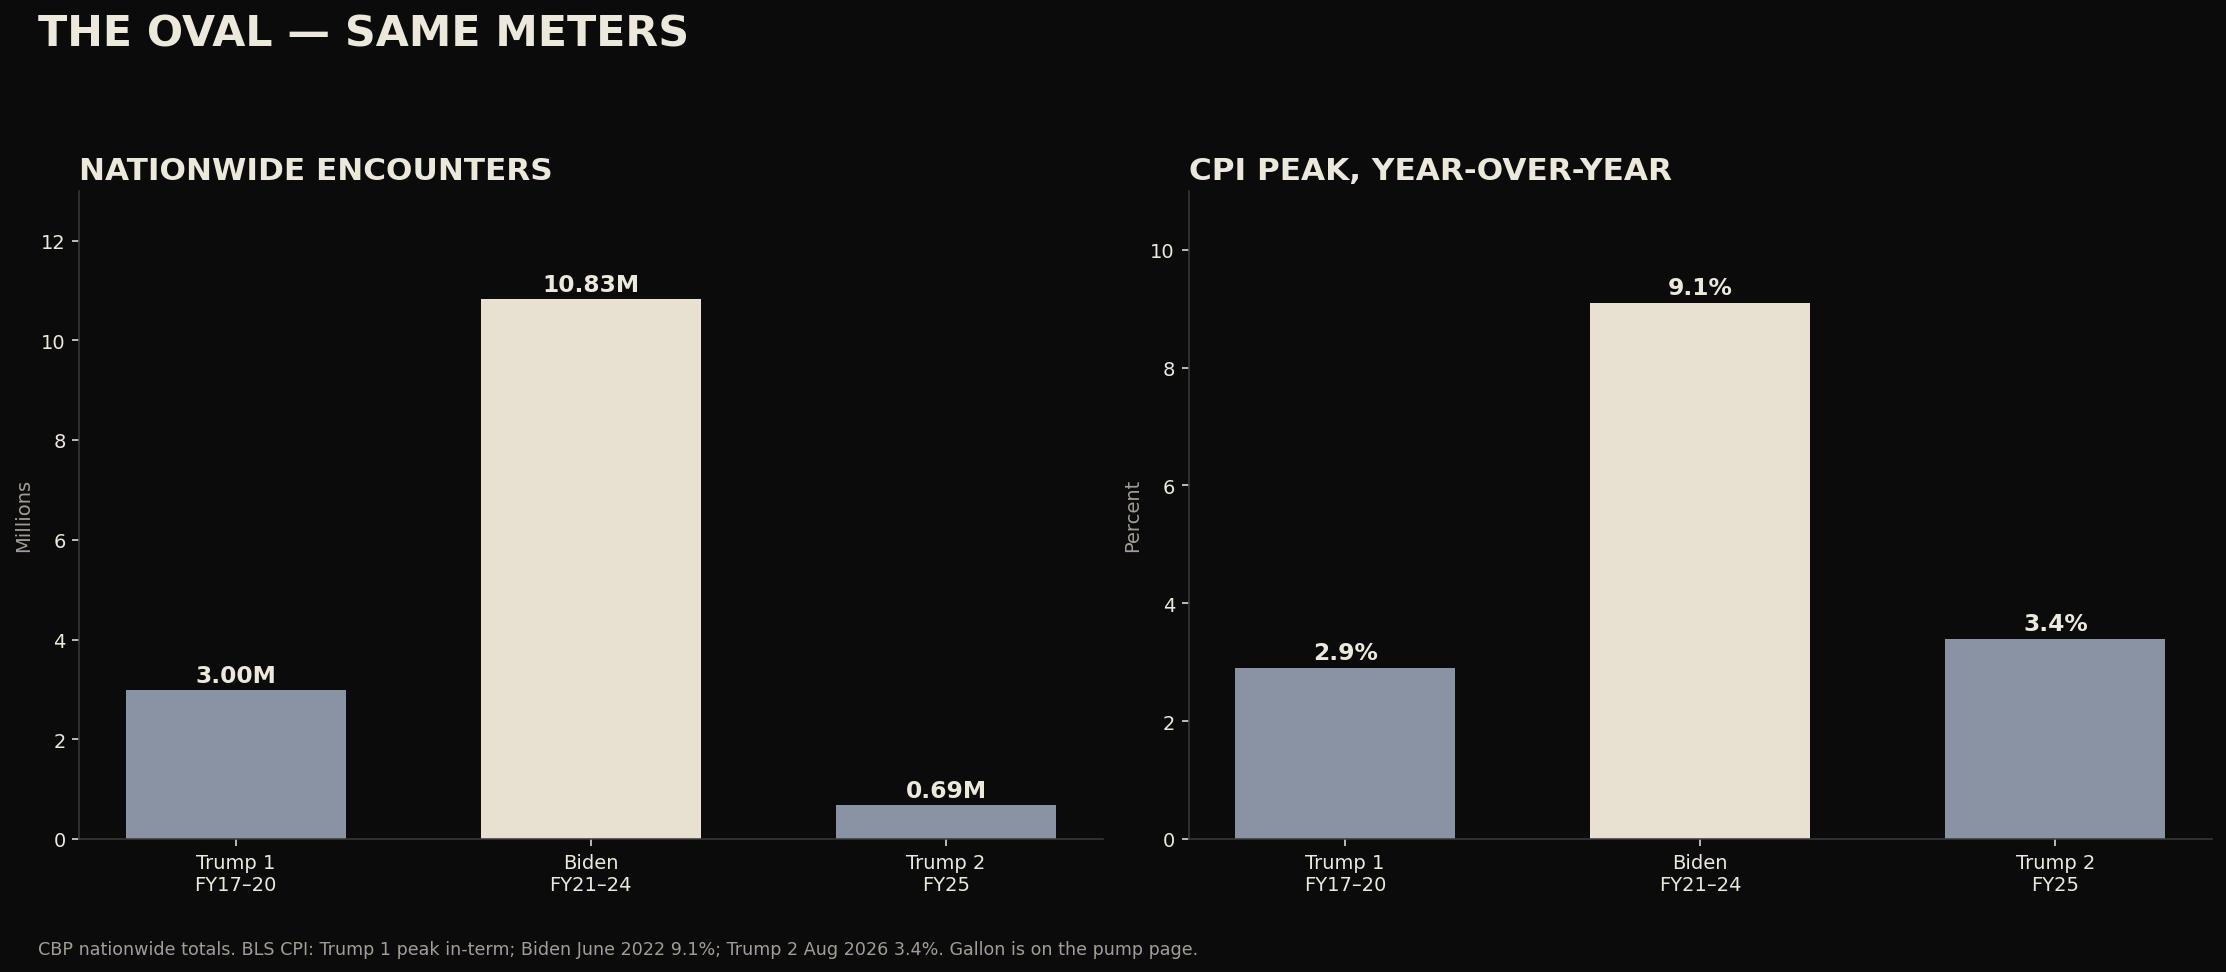
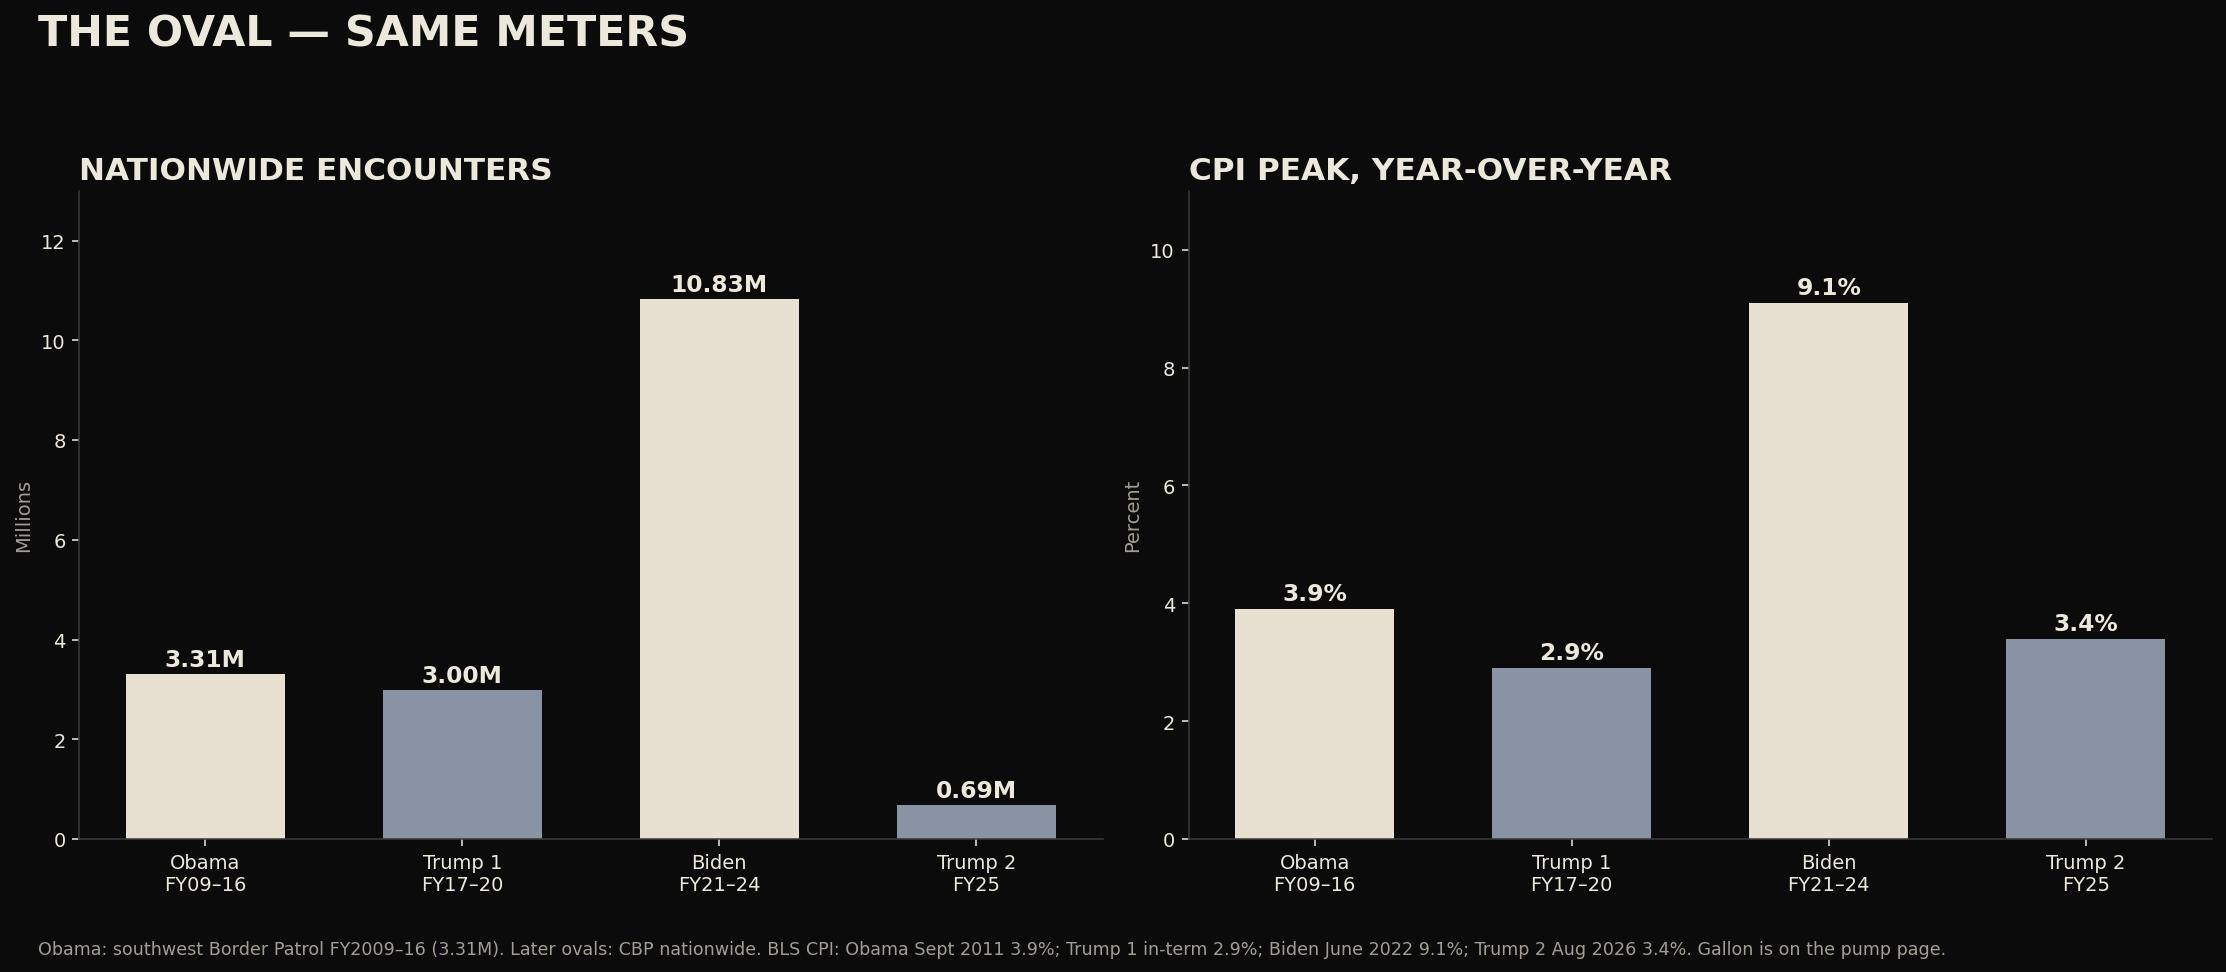
Oval starts with Obama: SW Border Patrol, CPI 3.9%, .965 gallon.

diff --git a/UPLOAD-TO-NAMECHEAP/scorecard.html b/UPLOAD-TO-NAMECHEAP/scorecard.html
@@ -106,7 +106,7 @@ footer .f{max-width:72rem;margin:0 auto;display:flex;justify-content:space-betwe
 </div>
 <div class="panel" id="oval-charts">
 <p class="btns"><a class="btn" href="#oval-charts">Charts</a><a class="btn out" href="#oval-read">Read</a></p>
-<p class="kicker">What an encounter is</p><p>Customs and Border Protection counts an encounter when its officers meet a person who is not making a lawful entry. That is Border Patrol between the ports of entry, and officers at land ports, airports, and seaports. It is people stopped, turned back, expelled, or processed. It is not a visa. It is not a gotaway — those are the people CBP did not meet. Nationwide means every door CBP counts, not only the southwest river.</p><p><a href="https://www.cbp.gov/newsroom/stats/nationwide-encounters">CBP — nationwide encounters →</a></p>
+<p class="kicker">What an encounter is</p><p>Customs and Border Protection counts an encounter when its officers meet a person who is not making a lawful entry. That is Border Patrol between the ports of entry, and officers at land ports, airports, and seaports. It is people stopped, turned back, expelled, or processed. It is not a visa. It is not a gotaway — those are the people CBP did not meet. Nationwide means every door CBP counts, not only the southwest river. Obama’s Oval uses the older official count: southwest Border Patrol apprehensions, FY2009–16, because CBP did not yet publish the nationwide combined dashboard for those years.</p><p><a href="https://www.cbp.gov/newsroom/stats/nationwide-encounters">CBP — nationwide encounters →</a></p>
 <figure><p class="kicker">The Oval — encounters and the CPI peak</p><img src="/images/chart-oval.jpg" alt="The Oval — encounters and the CPI peak"/><figcaption style="color:#a39e93;font-size:.85rem"><a href="https://www.cbp.gov/newsroom/stats/cbp-enforcement-statistics">CBP — enforcement statistics</a> · <a href="https://www.bls.gov/cpi/">BLS — CPI</a> · <a href="https://www.eia.gov/petroleum/gasdiesel/">EIA — the gallon</a></figcaption></figure><figure><p class="kicker">The gallon — four administrations</p><img src="/images/chart-pump-admins.jpg" alt="The gallon — four administrations"/><figcaption style="color:#a39e93;font-size:.85rem"><a href="https://www.eia.gov/petroleum/gasdiesel/">EIA</a> · <a href="https://fred.stlouisfed.org/series/GASREGW">FRED GASREGW</a></figcaption></figure><figure><p class="kicker">Crime — murder rate by administration</p><img src="/images/chart-crime.jpg" alt="Crime — murder rate by administration"/><figcaption style="color:#a39e93;font-size:.85rem"><a href="https://www.fbi.gov/news/stories/violent-crime-falls-at-historic-rate-new-fbi-data-show">FBI — violent crime 2025</a> · <a href="https://bjs.ojp.gov/document/ckle24.pdf">BJS — Crime Known to Law Enforcement, 2024</a></figcaption></figure>
 </div>
 <div class="panel" id="compare-charts">
@@ -164,10 +164,10 @@ footer .f{max-width:72rem;margin:0 auto;display:flex;justify-content:space-betwe
 <p class="btns"><a class="btn out" href="#oval-charts">Charts</a><a class="btn" href="#oval-read">Read</a></p>
 <h2>Oval</h2>
 <p class="kicker">What an encounter is</p>
-<p>Customs and Border Protection counts an encounter when its officers meet a person who is not making a lawful entry. That is Border Patrol between the ports of entry, and officers at land ports, airports, and seaports. It is people stopped, turned back, expelled, or processed. It is not a visa. It is not a gotaway — those are the people CBP did not meet. Nationwide means every door CBP counts, not only the southwest river.</p>
+<p>Customs and Border Protection counts an encounter when its officers meet a person who is not making a lawful entry. That is Border Patrol between the ports of entry, and officers at land ports, airports, and seaports. It is people stopped, turned back, expelled, or processed. It is not a visa. It is not a gotaway — those are the people CBP did not meet. Nationwide means every door CBP counts, not only the southwest river. Obama’s Oval uses the older official count: southwest Border Patrol apprehensions, FY2009–16, because CBP did not yet publish the nationwide combined dashboard for those years.</p>
 <p><a href="https://www.cbp.gov/newsroom/stats/nationwide-encounters">CBP — nationwide encounters →</a></p>
-<div class="grid"><div class="card" style="padding:1.2rem"><p class="kicker">Trump 1</p><p>FY2017–20</p><h3>3.00 million</h3><p>CBP nationwide encounters — people CBP met who were not a lawful entry</p><h3>2.9%</h3><p>CPI peak</p><h3>$2.96 peak</h3><p>highest EIA weekly gasoline</p></div><div class="card" style="padding:1.2rem"><p class="kicker">Biden</p><p>FY2021–24</p><h3>10.83 million</h3><p>CBP nationwide encounters — people CBP met who were not a lawful entry</p><h3>9.1%</h3><p>CPI peak</p><h3>$5.006 peak</h3><p>highest EIA weekly gasoline</p></div><div class="card" style="padding:1.2rem"><p class="kicker">Trump 2</p><p>FY2025</p><h3>0.69 million</h3><p>CBP nationwide encounters — people CBP met who were not a lawful entry</p><h3>3.4%</h3><p>CPI peak</p><h3>$4.50 peak</h3><p>highest EIA weekly gasoline</p></div></div>
-<p><a href="https://www.cbp.gov/newsroom/stats/nationwide-encounters">CBP — nationwide encounters</a> · <a href="https://www.cbp.gov/newsroom/stats/cbp-enforcement-statistics">CBP — enforcement statistics</a> · <a href="https://www.bls.gov/cpi/">BLS — CPI</a> · <a href="https://www.eia.gov/petroleum/gasdiesel/">EIA — the gallon</a> · <a href="https://fred.stlouisfed.org/series/UNRATE">FRED UNRATE</a> · <a href="/pump.html">The pump</a></p>
+<div class="grid"><div class="card" style="padding:1.2rem"><p class="kicker">Obama</p><p>FY2009–16</p><h3>3.31 million</h3><p>Southwest Border Patrol apprehensions, FY2009–16. CBP’s nationwide combined dashboard was not published for those years. CPI peak September 2011. EIA weekly regular: highest week $3.965 (May 9, 2011).</p><h3>3.9%</h3><p>CPI peak</p><h3>$3.965 peak</h3><p>highest EIA weekly gasoline</p></div><div class="card" style="padding:1.2rem"><p class="kicker">Trump 1</p><p>FY2017–20</p><h3>3.00 million</h3><p>Nationwide encounters. CPI peak in the term. EIA weekly regular: highest week $2.962 (May 28, 2018).</p><h3>2.9%</h3><p>CPI peak</p><h3>$2.96 peak</h3><p>highest EIA weekly gasoline</p></div><div class="card" style="padding:1.2rem"><p class="kicker">Biden</p><p>FY2021–24</p><h3>10.83 million</h3><p>Nationwide encounters. CPI June 2022. EIA weekly regular: $5.006 the week of June 13, 2022.</p><h3>9.1%</h3><p>CPI peak</p><h3>$5.006 peak</h3><p>highest EIA weekly gasoline</p></div><div class="card" style="padding:1.2rem"><p class="kicker">Trump 2</p><p>FY2025</p><h3>0.69 million</h3><p>Nationwide FY2025. CPI year-over-year August 2026. EIA weekly regular: highest week $4.500 (May 11, 2026).</p><h3>3.4%</h3><p>CPI peak</p><h3>$4.50 peak</h3><p>highest EIA weekly gasoline</p></div></div>
+<p><a href="https://www.cbp.gov/newsroom/stats/nationwide-encounters">CBP — nationwide encounters</a> · <a href="https://www.cbp.gov/document/stats/us-border-patrol-fiscal-year-southwest-border-sector-apprehensions-fy-1960-fy-2019">CBP — southwest Border Patrol FY1960–2019</a> · <a href="https://www.bls.gov/news.release/archives/cpi_10192011.htm">BLS — CPI September 2011, 3.9%</a> · <a href="https://www.cbp.gov/newsroom/stats/cbp-enforcement-statistics">CBP — enforcement statistics</a> · <a href="https://www.bls.gov/cpi/">BLS — CPI</a> · <a href="https://www.eia.gov/petroleum/gasdiesel/">EIA — the gallon</a> · <a href="https://fred.stlouisfed.org/series/UNRATE">FRED UNRATE</a> · <a href="/pump.html">The pump</a></p>
 </div>
 <div class="panel" id="compare-read">
 <p class="btns"><a class="btn out" href="#compare-charts">Charts</a><a class="btn" href="#compare-read">Read</a></p>

diff --git a/src/lib/scorecard.ts b/src/lib/scorecard.ts
@@ -126,6 +126,16 @@ export const HOAXES: { k: string; v: string; href: string }[] = [
 /** Oval — nationwide CBP, BLS CPI peak, EIA gallon. */
 export const OVAL = [
   {
+    who: "Obama",
+    when: "FY2009–16",
+    enc: "3.31 million",
+    encN: 3.31,
+    cpi: "3.9%",
+    cpiN: 3.9,
+    gas: "$3.965 peak",
+    note: "Southwest Border Patrol apprehensions, FY2009–16. CBP’s nationwide combined dashboard was not published for those years. CPI peak September 2011. EIA weekly regular: highest week $3.965 (May 9, 2011).",
+  },
+  {
     who: "Trump 1",
     when: "FY2017–20",
     enc: "3.00 million",
@@ -159,6 +169,8 @@ export const OVAL = [
 
 export const OVAL_LINKS = [
   { label: "CBP — nationwide encounters", href: "https://www.cbp.gov/newsroom/stats/nationwide-encounters" },
+  { label: "CBP — southwest Border Patrol FY1960–2019", href: "https://www.cbp.gov/document/stats/us-border-patrol-fiscal-year-southwest-border-sector-apprehensions-fy-1960-fy-2019" },
+  { label: "BLS — CPI September 2011, 3.9%", href: "https://www.bls.gov/news.release/archives/cpi_10192011.htm" },
   { label: "CBP — enforcement statistics", href: "https://www.cbp.gov/newsroom/stats/cbp-enforcement-statistics" },
   { label: "BLS — CPI", href: "https://www.bls.gov/cpi/" },
   { label: "EIA — the gallon", href: "https://www.eia.gov/petroleum/gasdiesel/" },
@@ -168,7 +180,7 @@ export const OVAL_LINKS = [
 /** What the Oval number is. CBP’s own count. */
 export const ENCOUNTERS = {
   k: "What an encounter is",
-  v: "Customs and Border Protection counts an encounter when its officers meet a person who is not making a lawful entry. That is Border Patrol between the ports of entry, and officers at land ports, airports, and seaports. It is people stopped, turned back, expelled, or processed. It is not a visa. It is not a gotaway — those are the people CBP did not meet. Nationwide means every door CBP counts, not only the southwest river.",
+  v: "Customs and Border Protection counts an encounter when its officers meet a person who is not making a lawful entry. That is Border Patrol between the ports of entry, and officers at land ports, airports, and seaports. It is people stopped, turned back, expelled, or processed. It is not a visa. It is not a gotaway — those are the people CBP did not meet. Nationwide means every door CBP counts, not only the southwest river. Obama’s Oval uses the older official count: southwest Border Patrol apprehensions, FY2009–16, because CBP did not yet publish the nationwide combined dashboard for those years.",
   href: "https://www.cbp.gov/newsroom/stats/nationwide-encounters",
 };
 

diff --git a/src/components/midterm-scorecard.tsx b/src/components/midterm-scorecard.tsx
@@ -365,7 +365,7 @@ function OvalFile() {
           CBP — nationwide encounters →
         </a>
       </div>
-      <div className="grid gap-4 md:grid-cols-3">
+      <div className="grid gap-4 sm:grid-cols-2 lg:grid-cols-4">
         {OVAL.map((row) => (
           <div key={row.who} className="rounded-md border border-border bg-surface p-5">
             <p className="font-display text-xs font-semibold tracking-[0.16em] text-sage uppercase">
@@ -373,9 +373,7 @@ function OvalFile() {
             </p>
             <p className="mt-1 text-sm text-muted">{row.when}</p>
             <p className="mt-4 font-display text-3xl font-bold tracking-wide">{row.enc}</p>
-            <p className="mt-1 text-sm text-muted">
-              CBP nationwide encounters — people CBP met who were not a lawful entry
-            </p>
+            <p className="mt-1 text-sm text-muted">{row.note}</p>
             <p className="mt-4 font-display text-2xl font-bold tracking-wide">{row.cpi}</p>
             <p className="mt-1 text-sm text-muted">CPI peak, year-over-year</p>
             <p className="mt-4 font-display text-2xl font-bold tracking-wide">{row.gas}</p>

diff --git a/scripts/make-party-charts.py b/scripts/make-party-charts.py
@@ -495,10 +495,10 @@ fig.savefig("/workspace/public/images/chart-debt-bars.jpg", dpi=140, facecolor=b
 plt.close()
 
 fig, axes = plt.subplots(1, 2, figsize=(16, 7), dpi=140, facecolor=bg)
-labs = ["Trump 1\nFY17–20", "Biden\nFY21–24", "Trump 2\nFY25"]
-enc = [3.00, 10.83, 0.69]
-cpi = [2.9, 9.1, 3.4]
-cols_o = [trump_c, biden_c, trump_c]
+labs = ["Obama\nFY09–16", "Trump 1\nFY17–20", "Biden\nFY21–24", "Trump 2\nFY25"]
+enc = [3.31, 3.00, 10.83, 0.69]
+cpi = [3.9, 2.9, 9.1, 3.4]
+cols_o = [biden_c, trump_c, biden_c, trump_c]
 ax = axes[0]
 ax.set_facecolor(bg)
 ax.bar(labs, enc, color=cols_o, width=0.62)
@@ -526,7 +526,7 @@ fig.suptitle("THE OVAL — SAME METERS", fontsize=22, fontweight="bold", color=f
 fig.text(
     0.02,
     0.02,
-    "CBP nationwide totals. BLS CPI: Trump 1 peak in-term; Biden June 2022 9.1%; Trump 2 Aug 2026 3.4%. Gallon is on the pump page.",
+    "Obama: southwest Border Patrol FY2009–16 (3.31M). Later ovals: CBP nationwide. BLS CPI: Obama Sept 2011 3.9%; Trump 1 in-term 2.9%; Biden June 2022 9.1%; Trump 2 Aug 2026 3.4%. Gallon is on the pump page.",
     fontsize=9,
     color=muted,
 )
